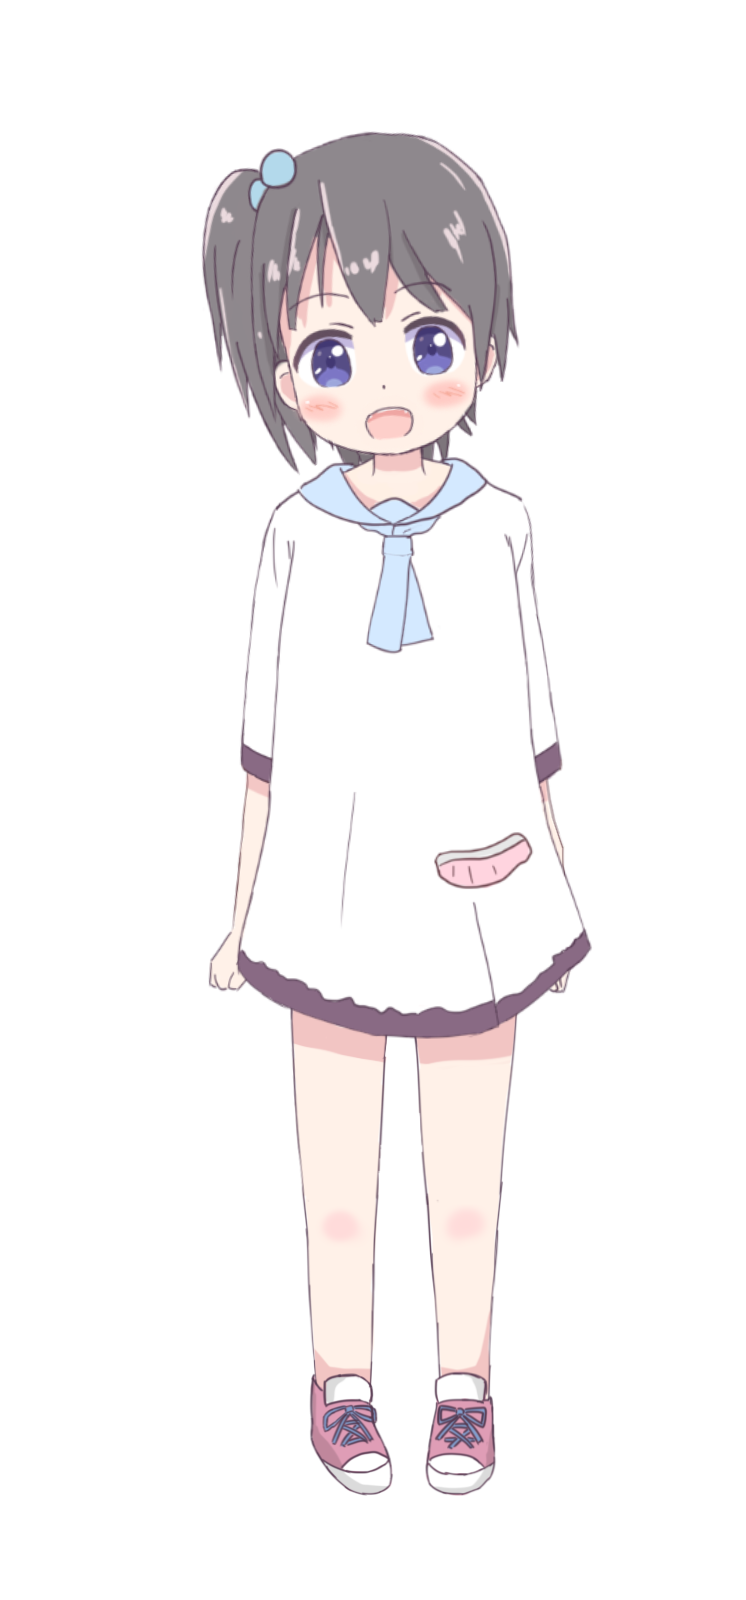
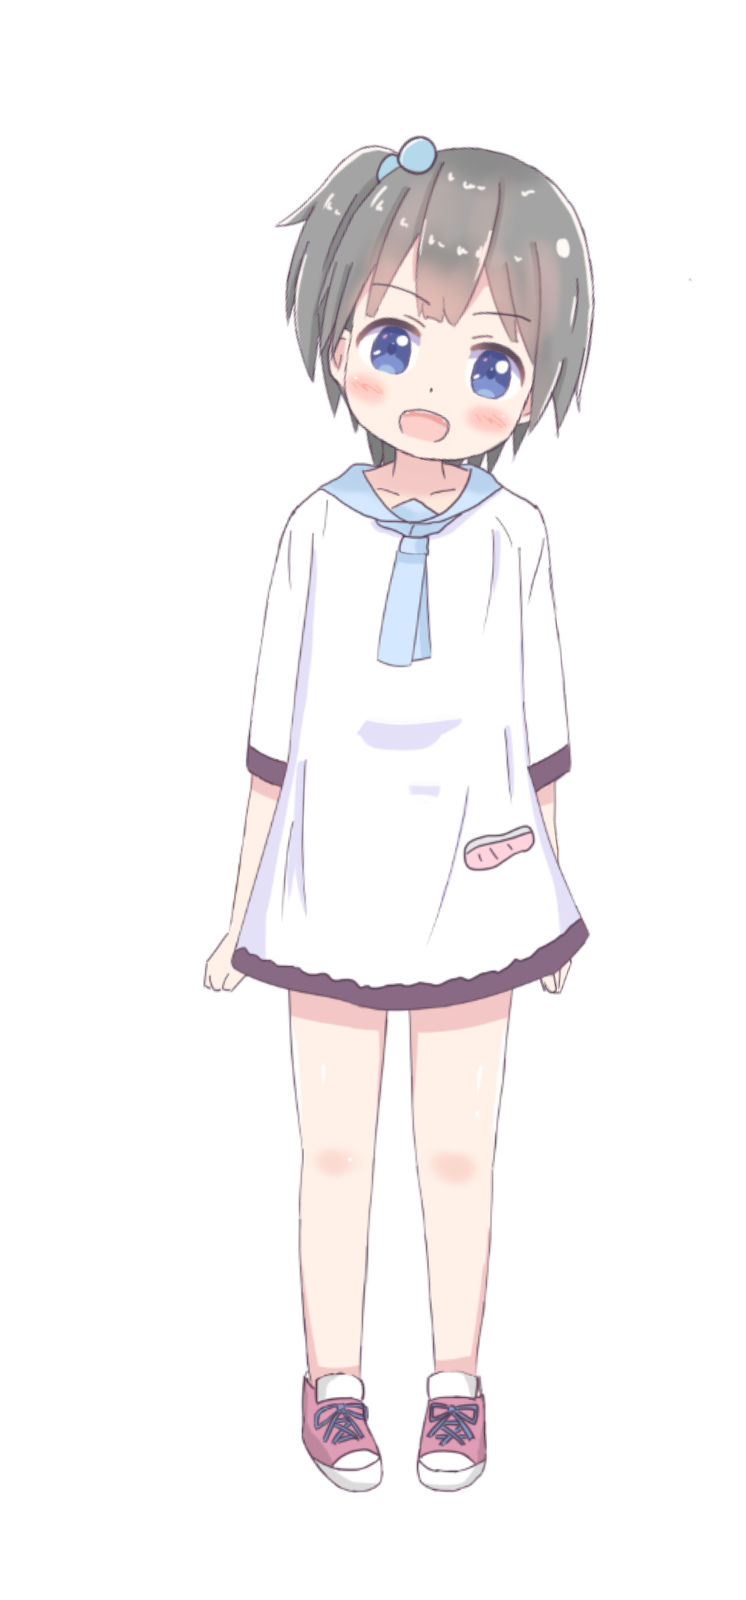
Replaced to new kirimin-chan model

Changed region(s): [[0.2466, 0.0625, 0.8016, 0.9375], [0.4625, 0.5, 0.4933, 0.5312]]

diff --git a/src/screen/Home.js b/src/screen/Home.js
@@ -36,7 +36,7 @@ export class Home extends Component {
         <section className="Home_Movie">
           <div className="Home_MovieYoutube">
             <YouTube className="Home_MovieYoutubeFrame"
-              videoId="ZhINFxFdISA"
+              videoId="-6CCLhUL_ZM"
               opts={youtubeOpts}
               onReady={this._onReady}
             />

diff --git a/src/screen/Profile.js b/src/screen/Profile.js
@@ -1,6 +1,6 @@
 import React, { Component } from 'react'
 
-import KiriminChan from '../assets/kirimin-chan2.png'
+import KiriminChan from '../assets/立ち絵.gif'
 import './Profile.css';
 
 export class Profile extends Component {
